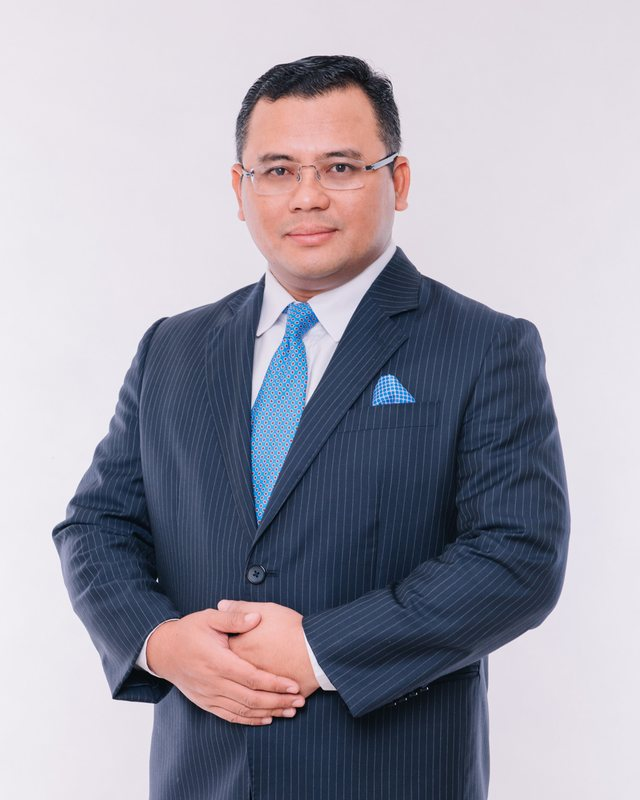
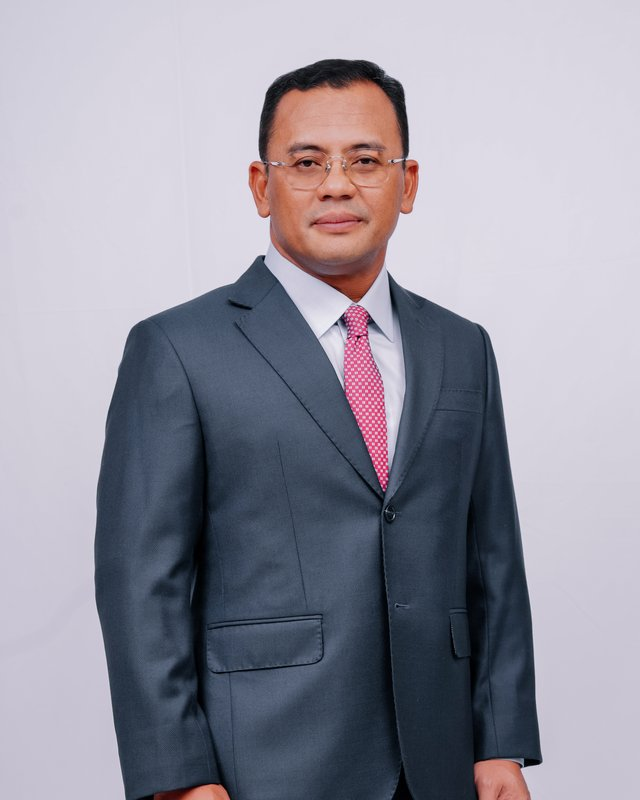
Use the newly approved photo of the MB on the front page (v0.9.1)
Claude-Session: https://claude.ai/code/session_01YXPmrvuMWYrDm37csH9D1b

diff --git a/myaduan.php b/myaduan.php
@@ -2,7 +2,7 @@
 /**
  * Plugin Name:       MyAduan
  * Description:       Sistem aduan Parlimen Gombak: borang awam, semakan status, portal admin dan dashboard. Data disimpan dalam MySQL WordPress.
- * Version:           0.9.0
+ * Version:           0.9.1
  * Requires at least: 6.4
  * Requires PHP:      8.1
  * Author:            Azhari
@@ -13,7 +13,7 @@ if (!defined('ABSPATH')) {
     exit;
 }
 
-define('MYADUAN_VERSION', '0.9.0');
+define('MYADUAN_VERSION', '0.9.1');
 define('MYADUAN_DB_VERSION', 4);
 define('MYADUAN_FILE', __FILE__);
 define('MYADUAN_DIR', __DIR__);
